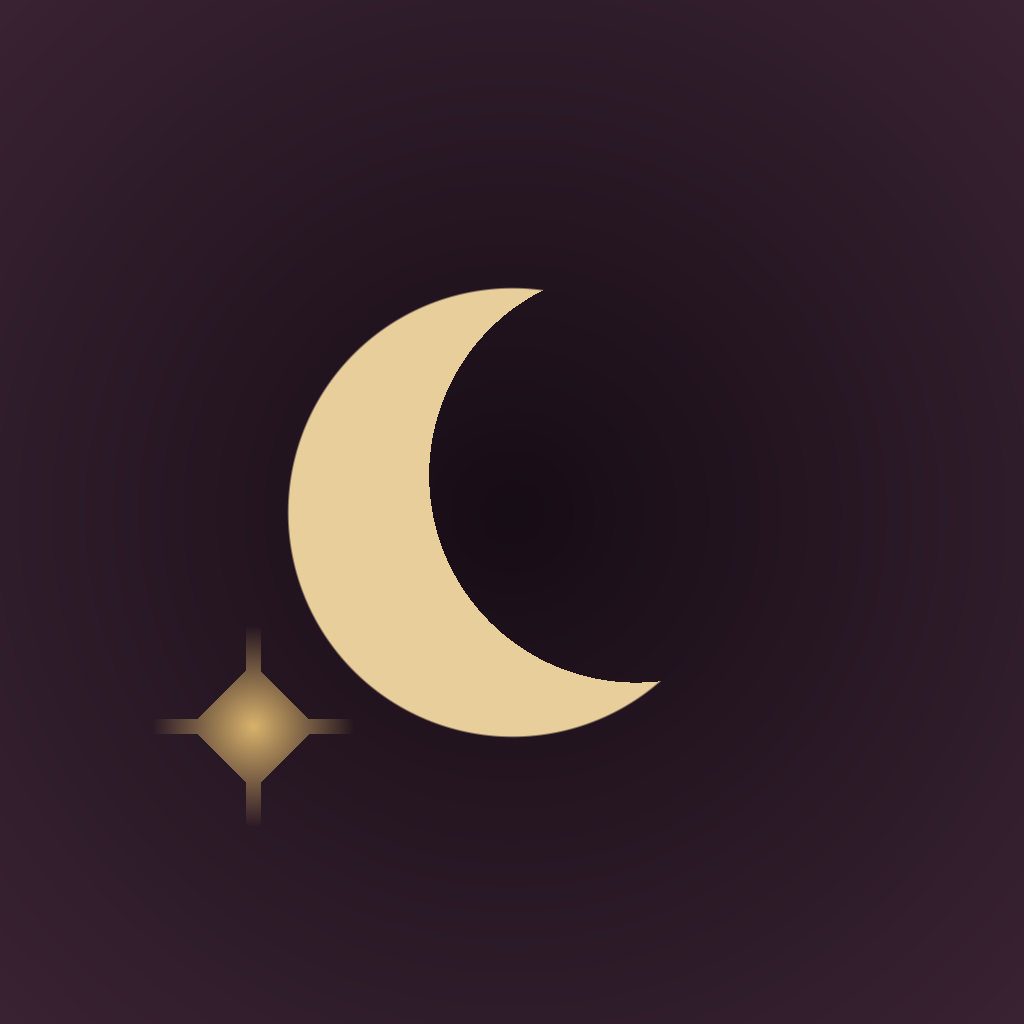
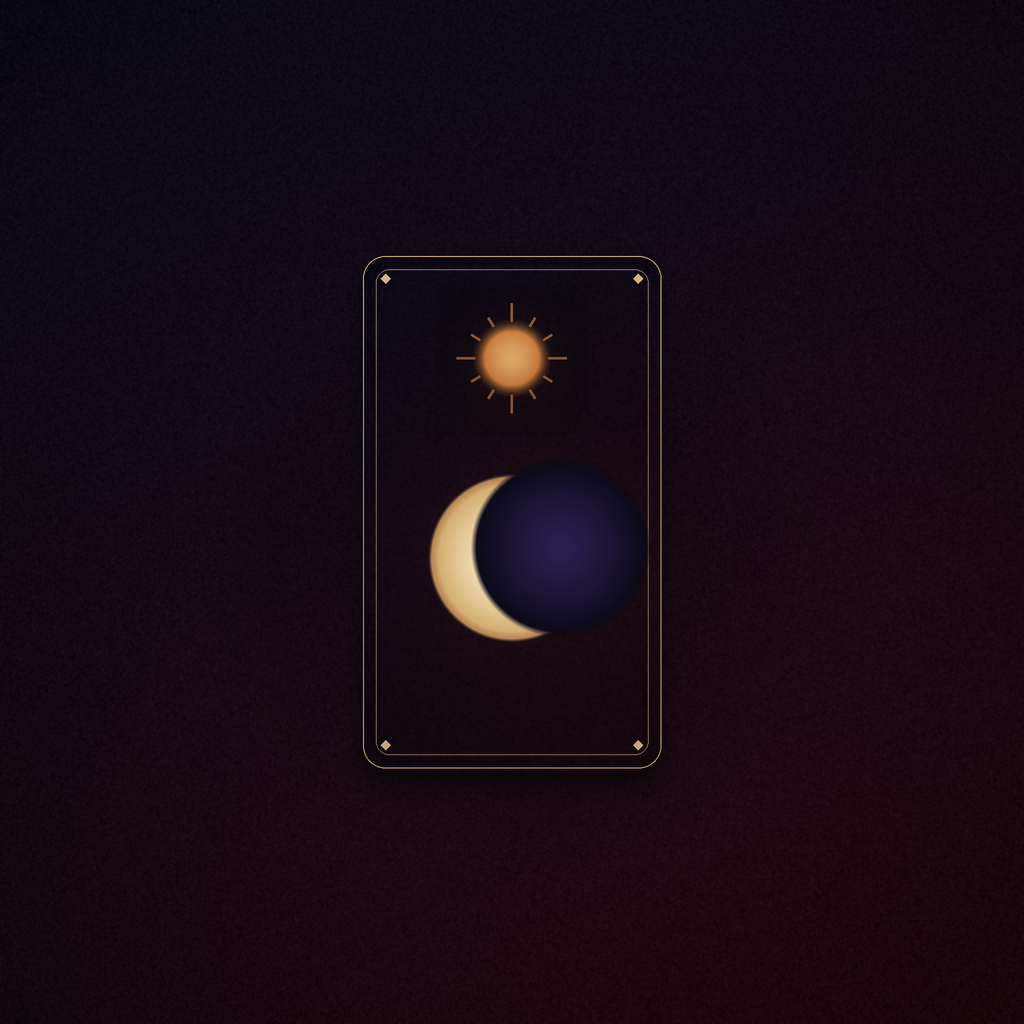
Intègre l'identité visuelle finale et corrige la navigation Profil
- Icône, icône adaptative Android, splash et favicon régénérés :
  carte de tarot posée sur fond bordeaux/indigo, soleil orangé et
  lune éclipsée en or, cadre à double liseré doré (Velvet Occultation).
- Corrige un décalage de version : @expo/vector-icons installait un
  expo-font nested incompatible (57.x) avec expo-modules-core, ce qui
  faisait planter le rendu web (registerWebModule is not a function).
  Épinglé à ~12.0.10 et dédupliqué.
- expo-linear-gradient aligné sur la version compatible SDK 51 (13.0.2).
- Ajoute app/(tabs)/profil/_layout.tsx manquant : l'onglet Profil
  n'était pas reconnu comme route nommée et affichait "profil/index"
  au lieu de "Profil" dans le header et la tab bar.

diff --git a/app/(tabs)/profil/_layout.tsx b/app/(tabs)/profil/_layout.tsx
@@ -1,0 +1,18 @@
+import React from "react";
+import { Stack } from "expo-router";
+import { colors } from "@/theme/colors";
+
+export default function ProfilLayout() {
+  return (
+    <Stack
+      screenOptions={{
+        headerStyle: { backgroundColor: colors.background },
+        headerTintColor: colors.text,
+        headerTitleStyle: { color: colors.text },
+        contentStyle: { backgroundColor: colors.background },
+      }}
+    >
+      <Stack.Screen name="index" options={{ title: "Profil" }} />
+    </Stack>
+  );
+}

diff --git a/app/(tabs)/_layout.tsx b/app/(tabs)/_layout.tsx
@@ -50,6 +50,7 @@ export default function TabsLayout() {
         name="profil"
         options={{
           title: "Profil",
+          headerShown: false,
           tabBarIcon: ({ color, size }) => <Ionicons name="person-circle" color={color} size={size} />,
         }}
       />
